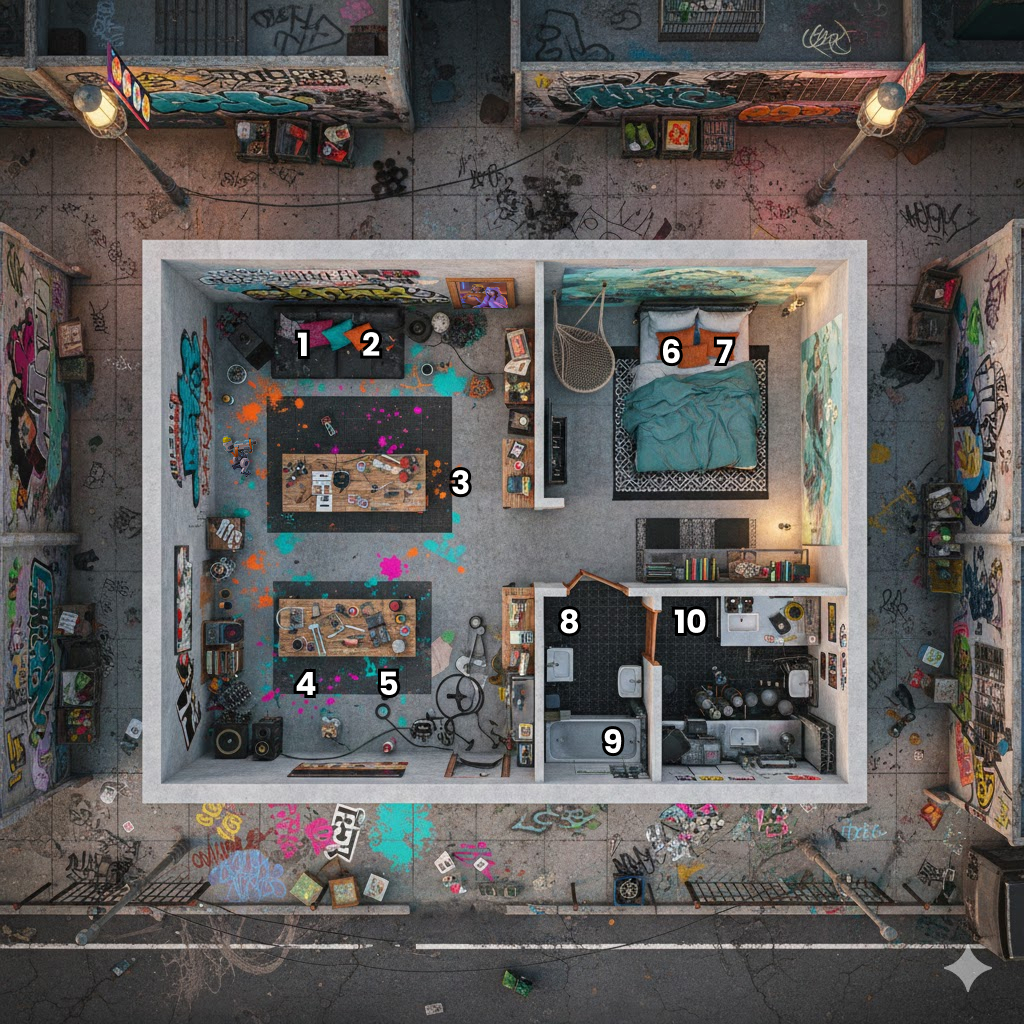
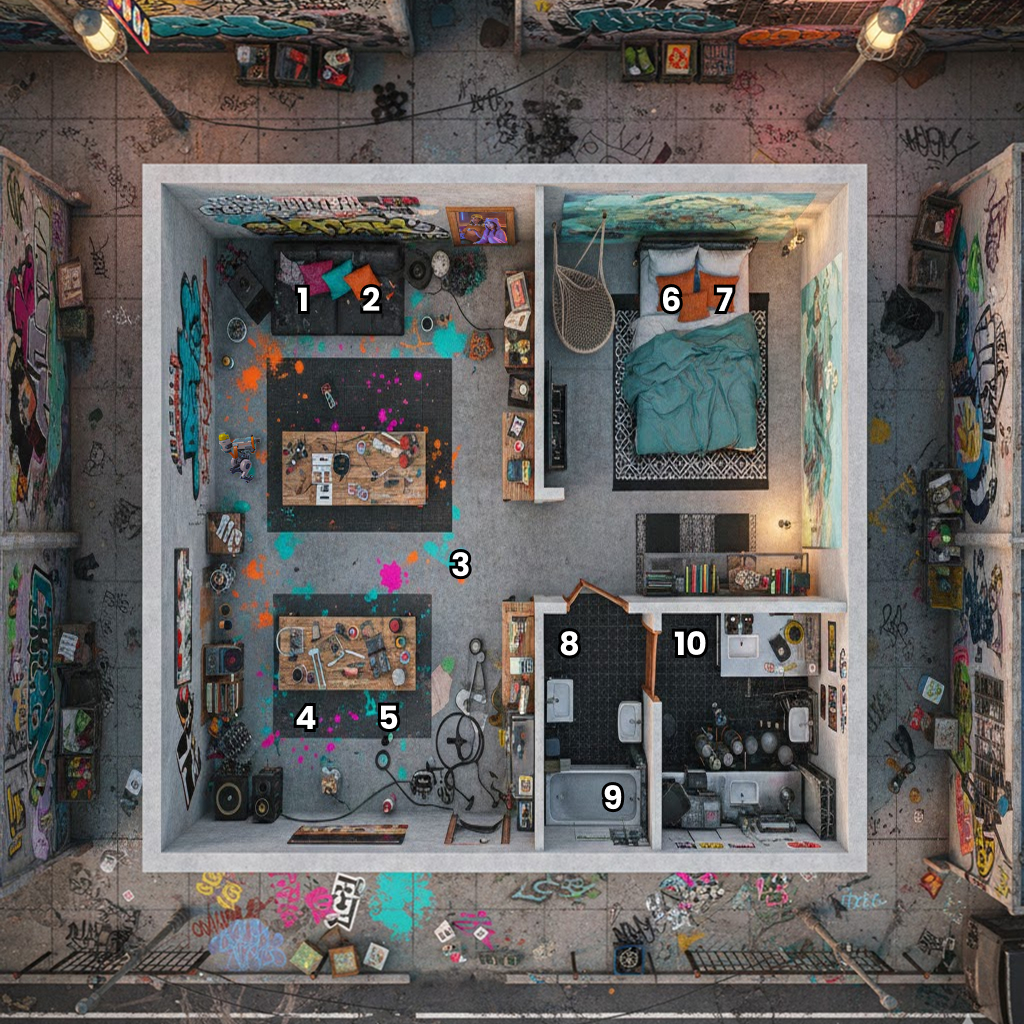
fixing raze room sizes

diff --git a/src/actions/hide-n-sick.ts b/src/actions/hide-n-sick.ts
@@ -254,43 +254,43 @@ export class HideAndSeek {
     [RoomsE.RAZE]: {
       1: {
         x: 381,
-        y: 321,
+        y: 275,
       },
       2: {
         x: 349,
-        y: 321,
+        y: 275,
       },
       3: {
         x: 438,
-        y: 459,
+        y: 541,
       },
       4: {
         x: 285,
-        y: 660,
+        y: 695,
       },
       5: {
         x: 366,
-        y: 660,
+        y: 695,
       },
       6: {
         x: 649,
-        y: 328,
+        y: 276,
       },
       7: {
         x: 702,
-        y: 328,
+        y: 276,
       },
       8: {
         x: 547,
-        y: 599,
+        y: 620,
       },
       9: {
         x: 590,
-        y: 718,
+        y: 774,
       },
       10: {
         x: 668,
-        y: 599,
+        y: 620,
       },
     },
   };
